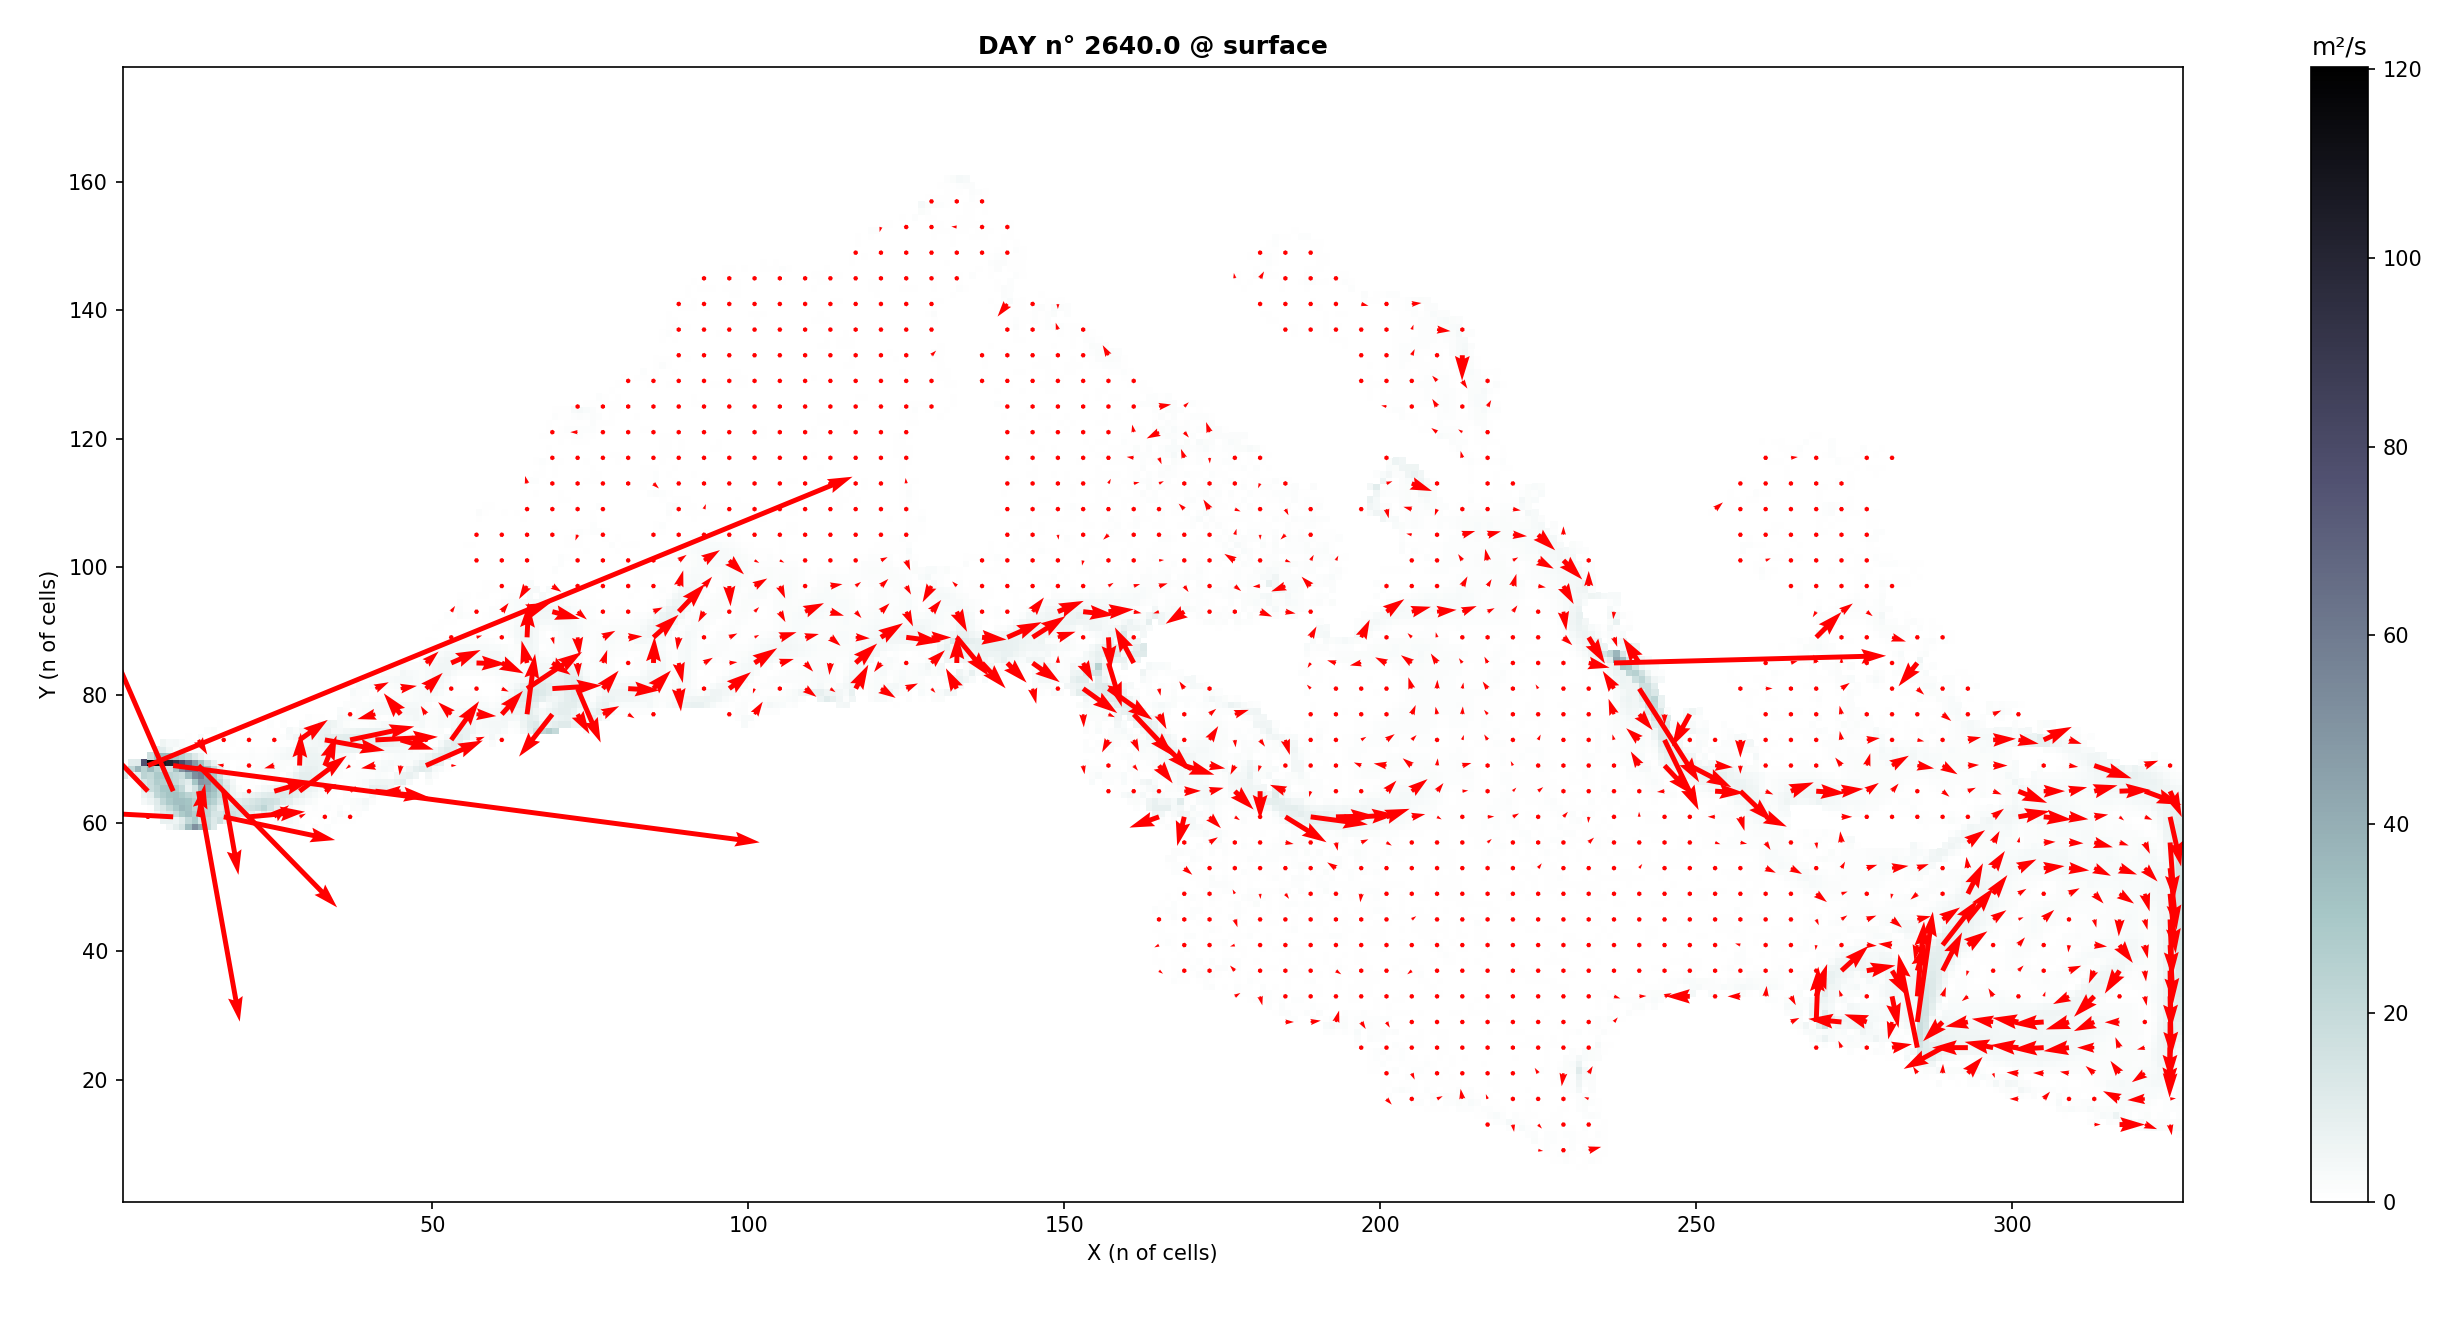
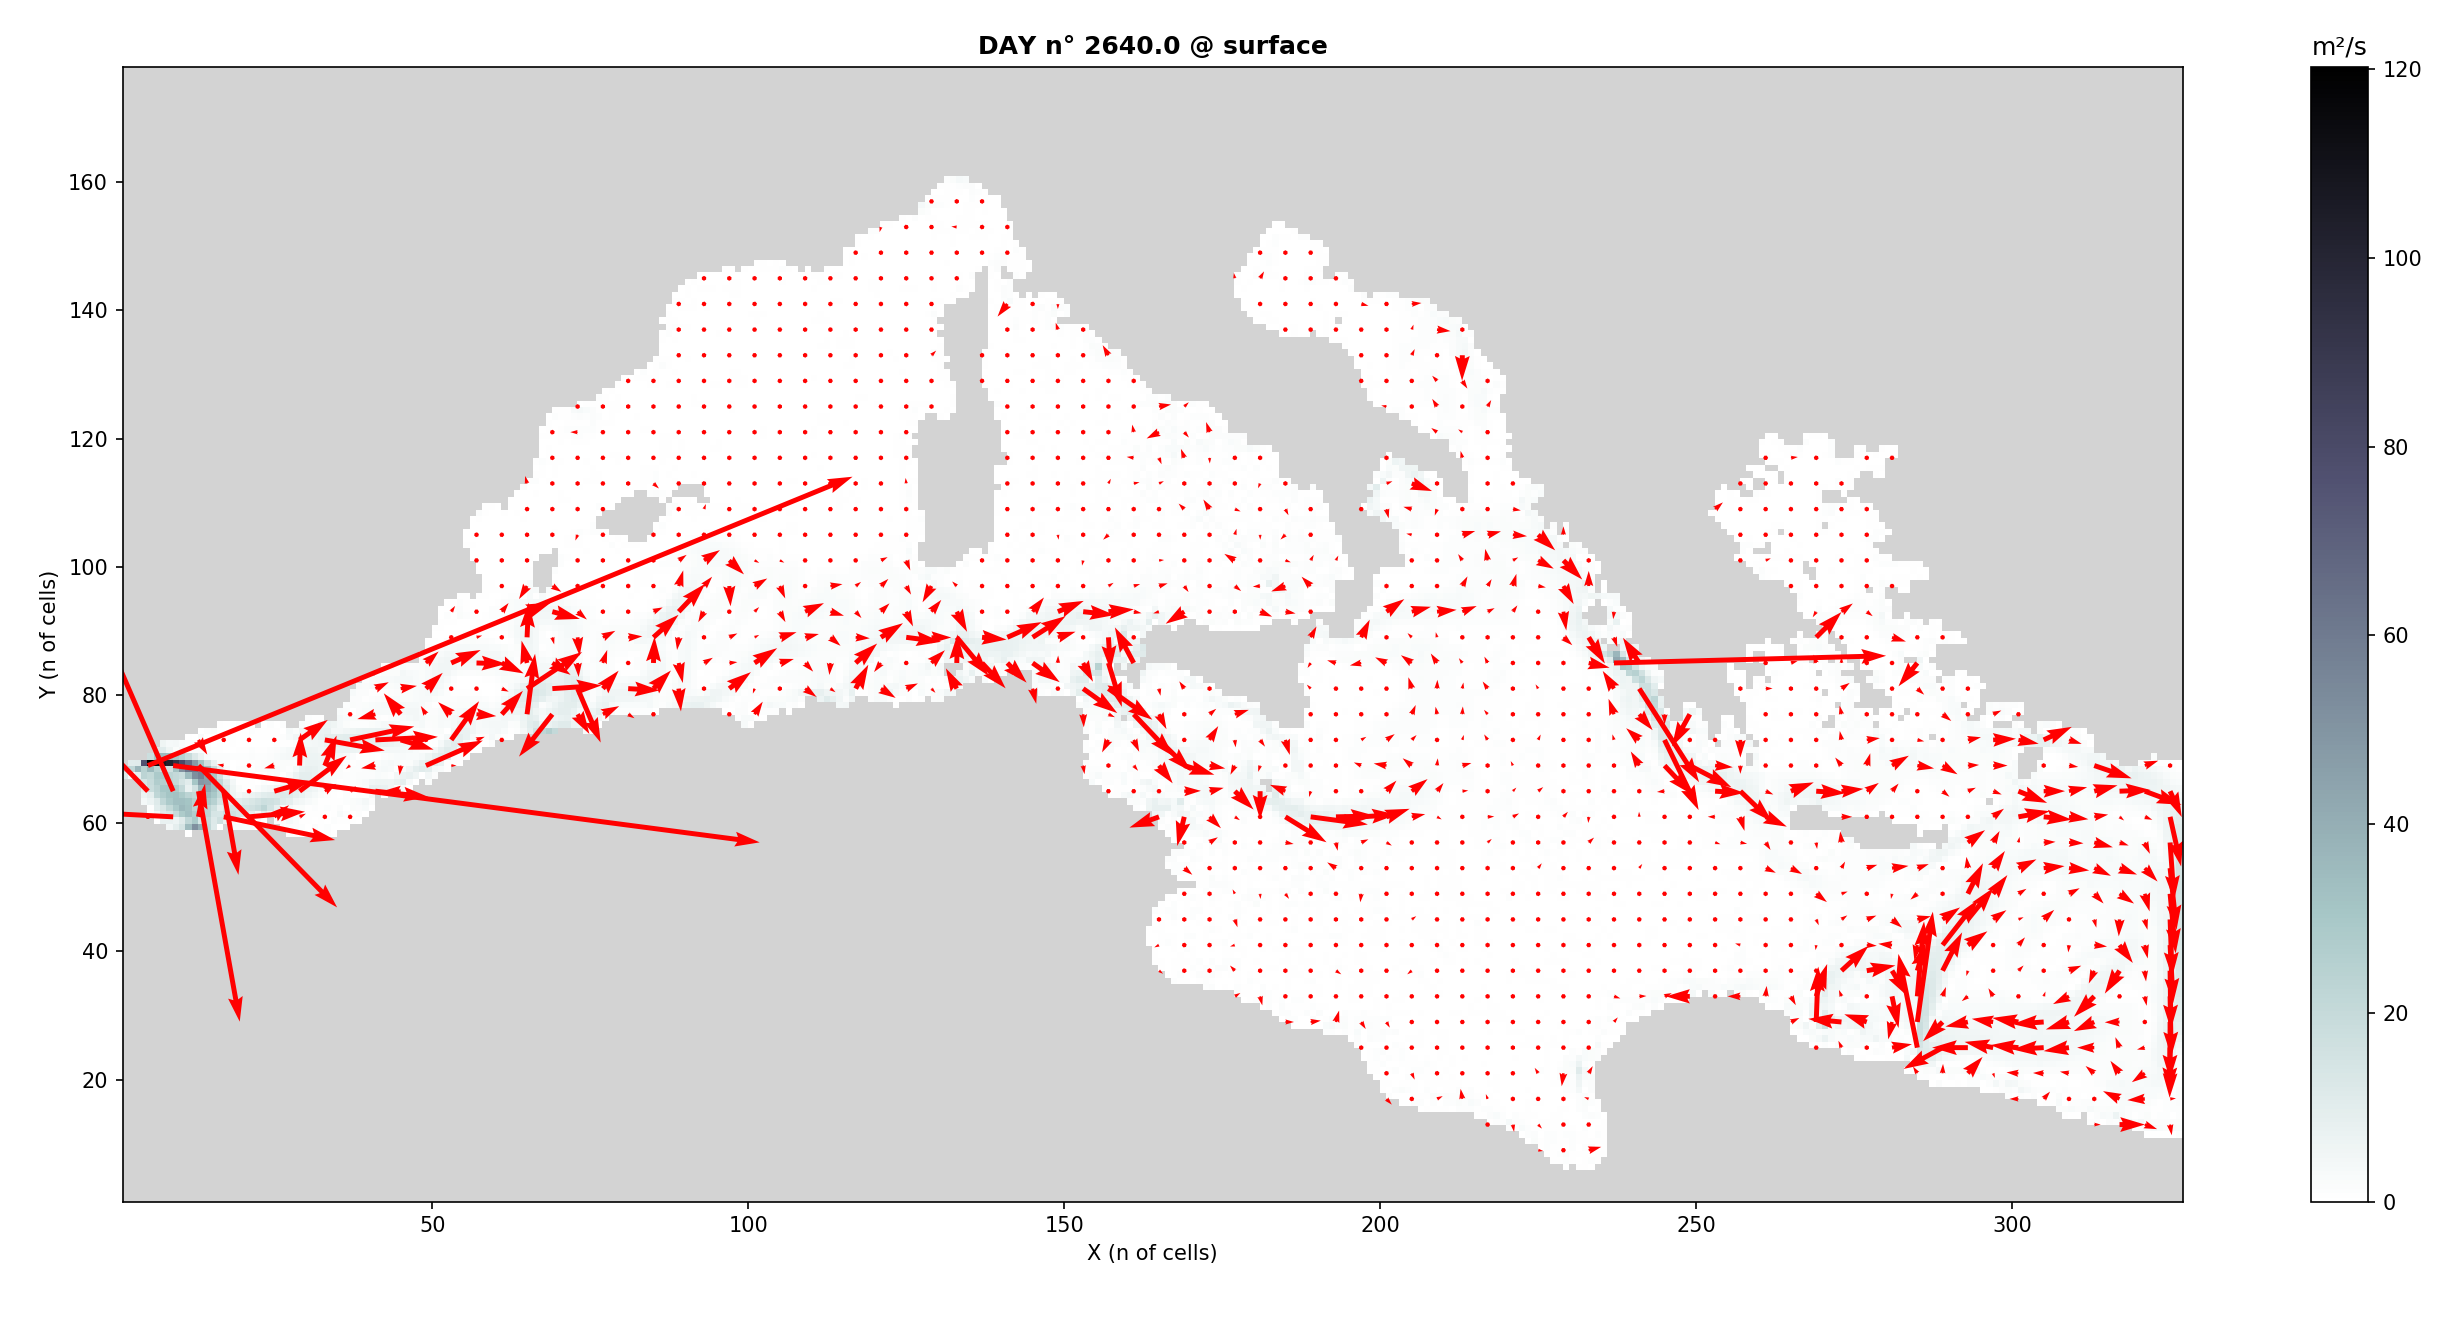
ter jan  7 17:29:45 -03 2020

diff --git a/single_figure.py b/single_figure.py
@@ -21,7 +21,7 @@ day = (t*dt*print_t)/(60*60*24)
 y = dataset.dimensions['lat'].size
 x = dataset.dimensions['lon'].size
 
-layer = 5 - 1
+layer = 4 - 1
 U = dataset.groups['state_variables']['u'][t][layer]
 V = dataset.groups['state_variables']['v'][t][layer]
 
@@ -47,6 +47,9 @@ font_y = {'size': 14,
 cmax = transport.data.max()  # speed_phys_83.data.max()
 cmin = transport.data.min()
 
+
+plt.cm.bone_r.set_bad(color='lightgrey')
+
 sp2 = axs.pcolormesh(X_num, Y_num, transport,
                      cmap=plt.cm.bone_r,
                      vmin=cmin, vmax=cmax)
@@ -70,5 +73,5 @@ Q = axs.quiver(X_num[::4, ::4],
 #                    r'$2.5 \frac{cm}{s}$', labelpos='E',
 #                    coordinates='axes')
 
-plt.savefig('surface_transports_day_' + str(int(day)) + '.png')
+plt.savefig('surface_transports_layer'+ str(layer+1) + '_day_' + str(int(day)) + '.png')
 #plt.show()
